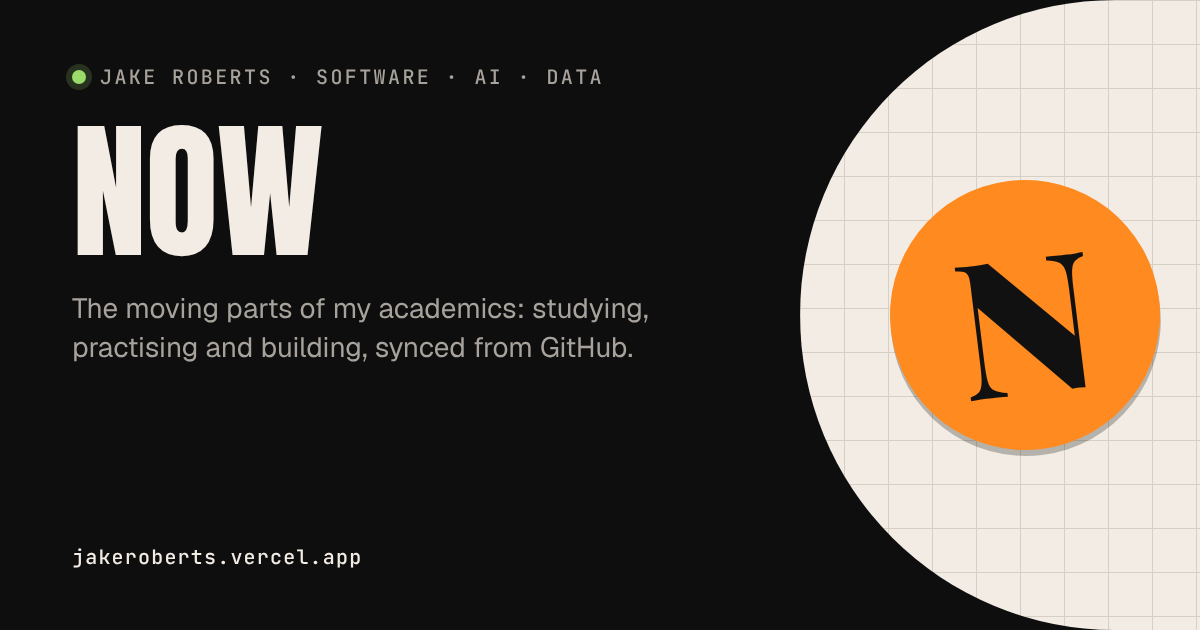
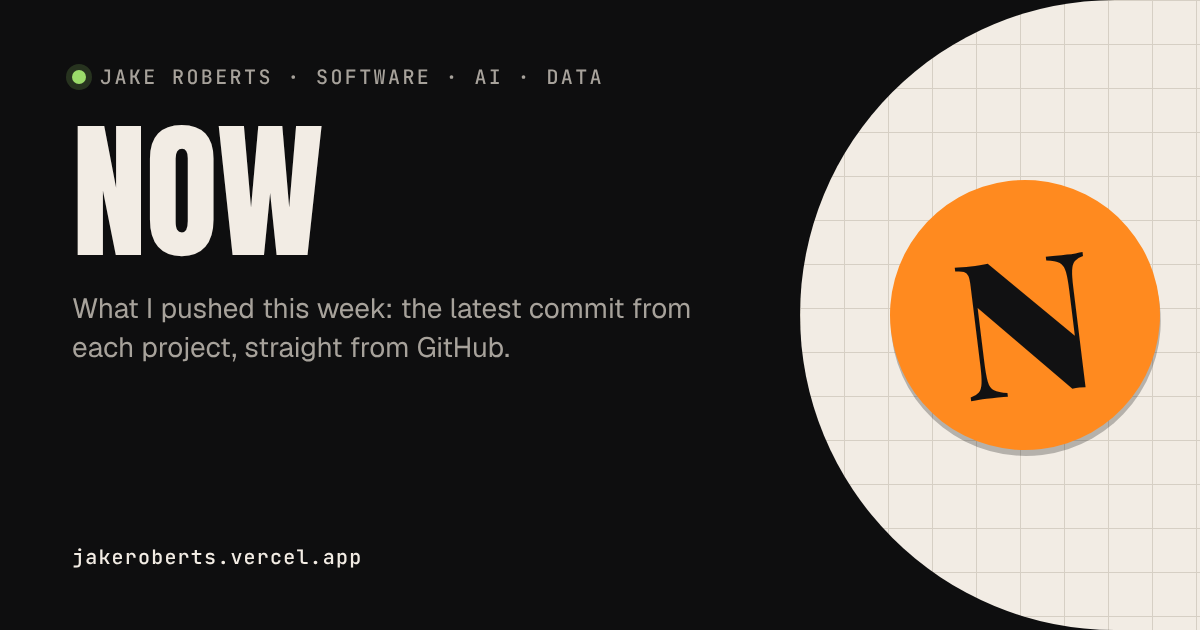
Now: show this week's latest commit per project
Only repos pushed in the last 7 days get a card, holding just that
repo's latest commit as the headline. Cards drop off once their last
push is a week old, checked again in the browser between rebuilds;
a 'Quiet week' note shows when nothing is left.

Claude-Session: https://claude.ai/code/session_012S2VB5LfhrGkEM6oKPA1Jq

Changed region(s): [[0.0617, 0.4524, 0.5858, 0.573]]

diff --git a/src/data/now.ts b/src/data/now.ts
@@ -23,6 +23,8 @@ export const nowRepos: NowRepo[] = [
 
 // A repo counts as active if it had a commit in this many days.
 export const ACTIVE_DAYS = 30;
+// The Now page shows only repos pushed within this many days; older cards drop off.
+export const WINDOW_DAYS = 7;
 
 // What only Jake can write: where each project is stuck and what's next. Last pushes come from GitHub.
 // Fields left out are simply not shown.
